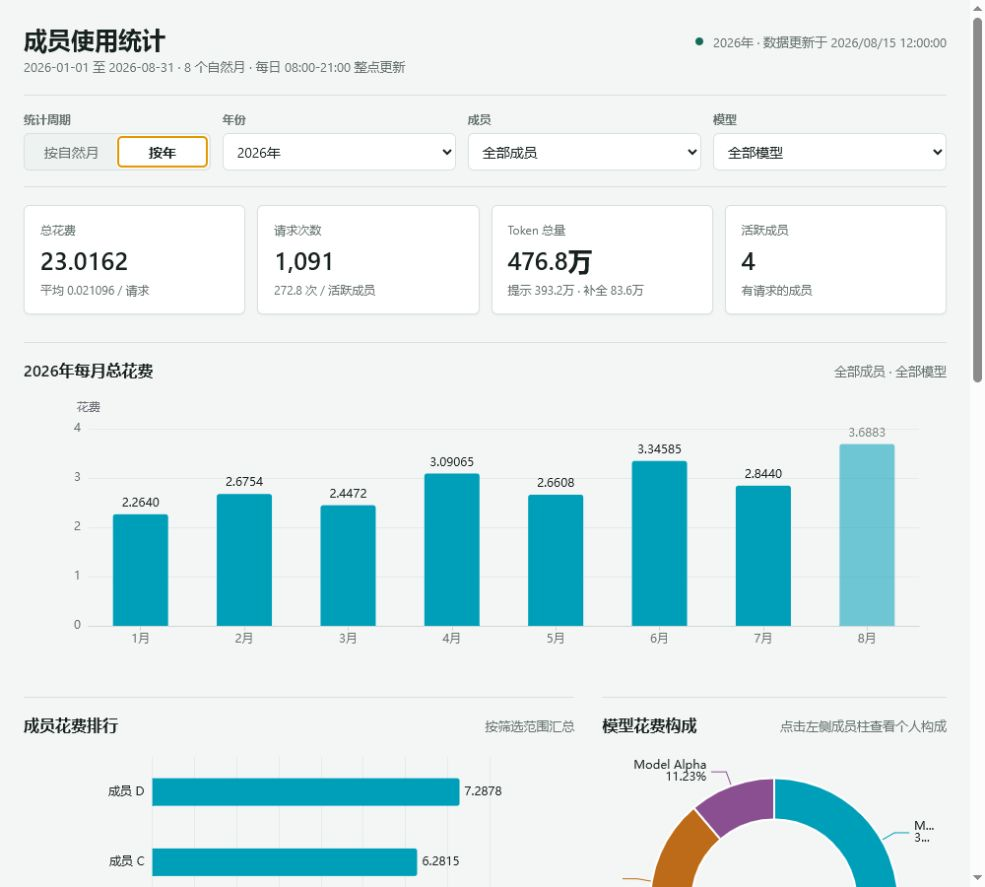
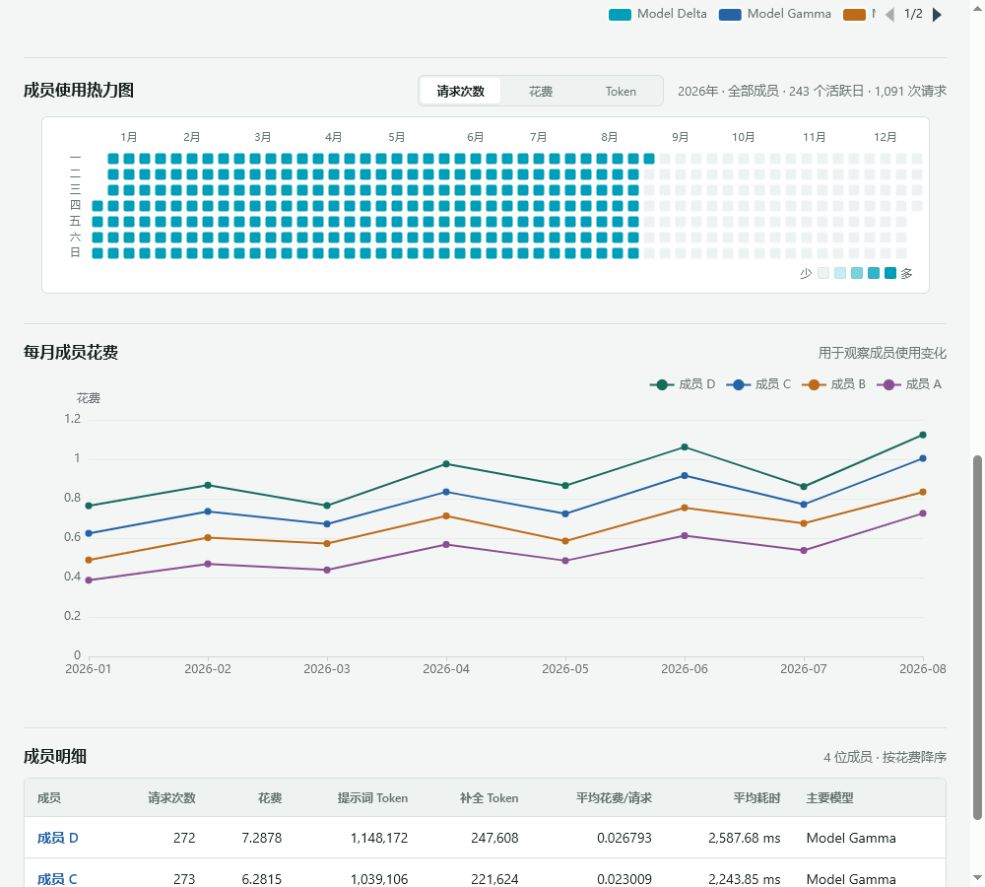
docs: add annual heatmap coverage

diff --git a/README_EN.md b/README_EN.md
@@ -32,7 +32,13 @@ Selecting an anonymous member's cost bar updates the period summary, model break
 
 ### Annual monthly cost totals
 
-![Annual monthly cost totals](docs/screenshots/year-heatmap.jpg)
+![Annual monthly cost totals](docs/screenshots/year-monthly-totals.jpg)
+
+### Annual usage heatmap
+
+The heatmap shows daily usage across the year and can switch between requests, cost, and tokens. Dates without data remain lightly shaded.
+
+![Annual usage heatmap](docs/screenshots/year-heatmap.jpg)
 
 ## Architecture
 

diff --git a/README.md b/README.md
@@ -32,7 +32,13 @@
 
 ### 年度每月花费汇总
 
-![年度每月花费汇总](docs/screenshots/year-heatmap.jpg)
+![年度每月花费汇总](docs/screenshots/year-monthly-totals.jpg)
+
+### 年度使用热力图
+
+热力图按自然日展示全年使用频率，可在请求次数、花费和 Token 之间切换；没有数据的日期以浅色显示。
+
+![年度使用热力图](docs/screenshots/year-heatmap.jpg)
 
 ## 架构
 
